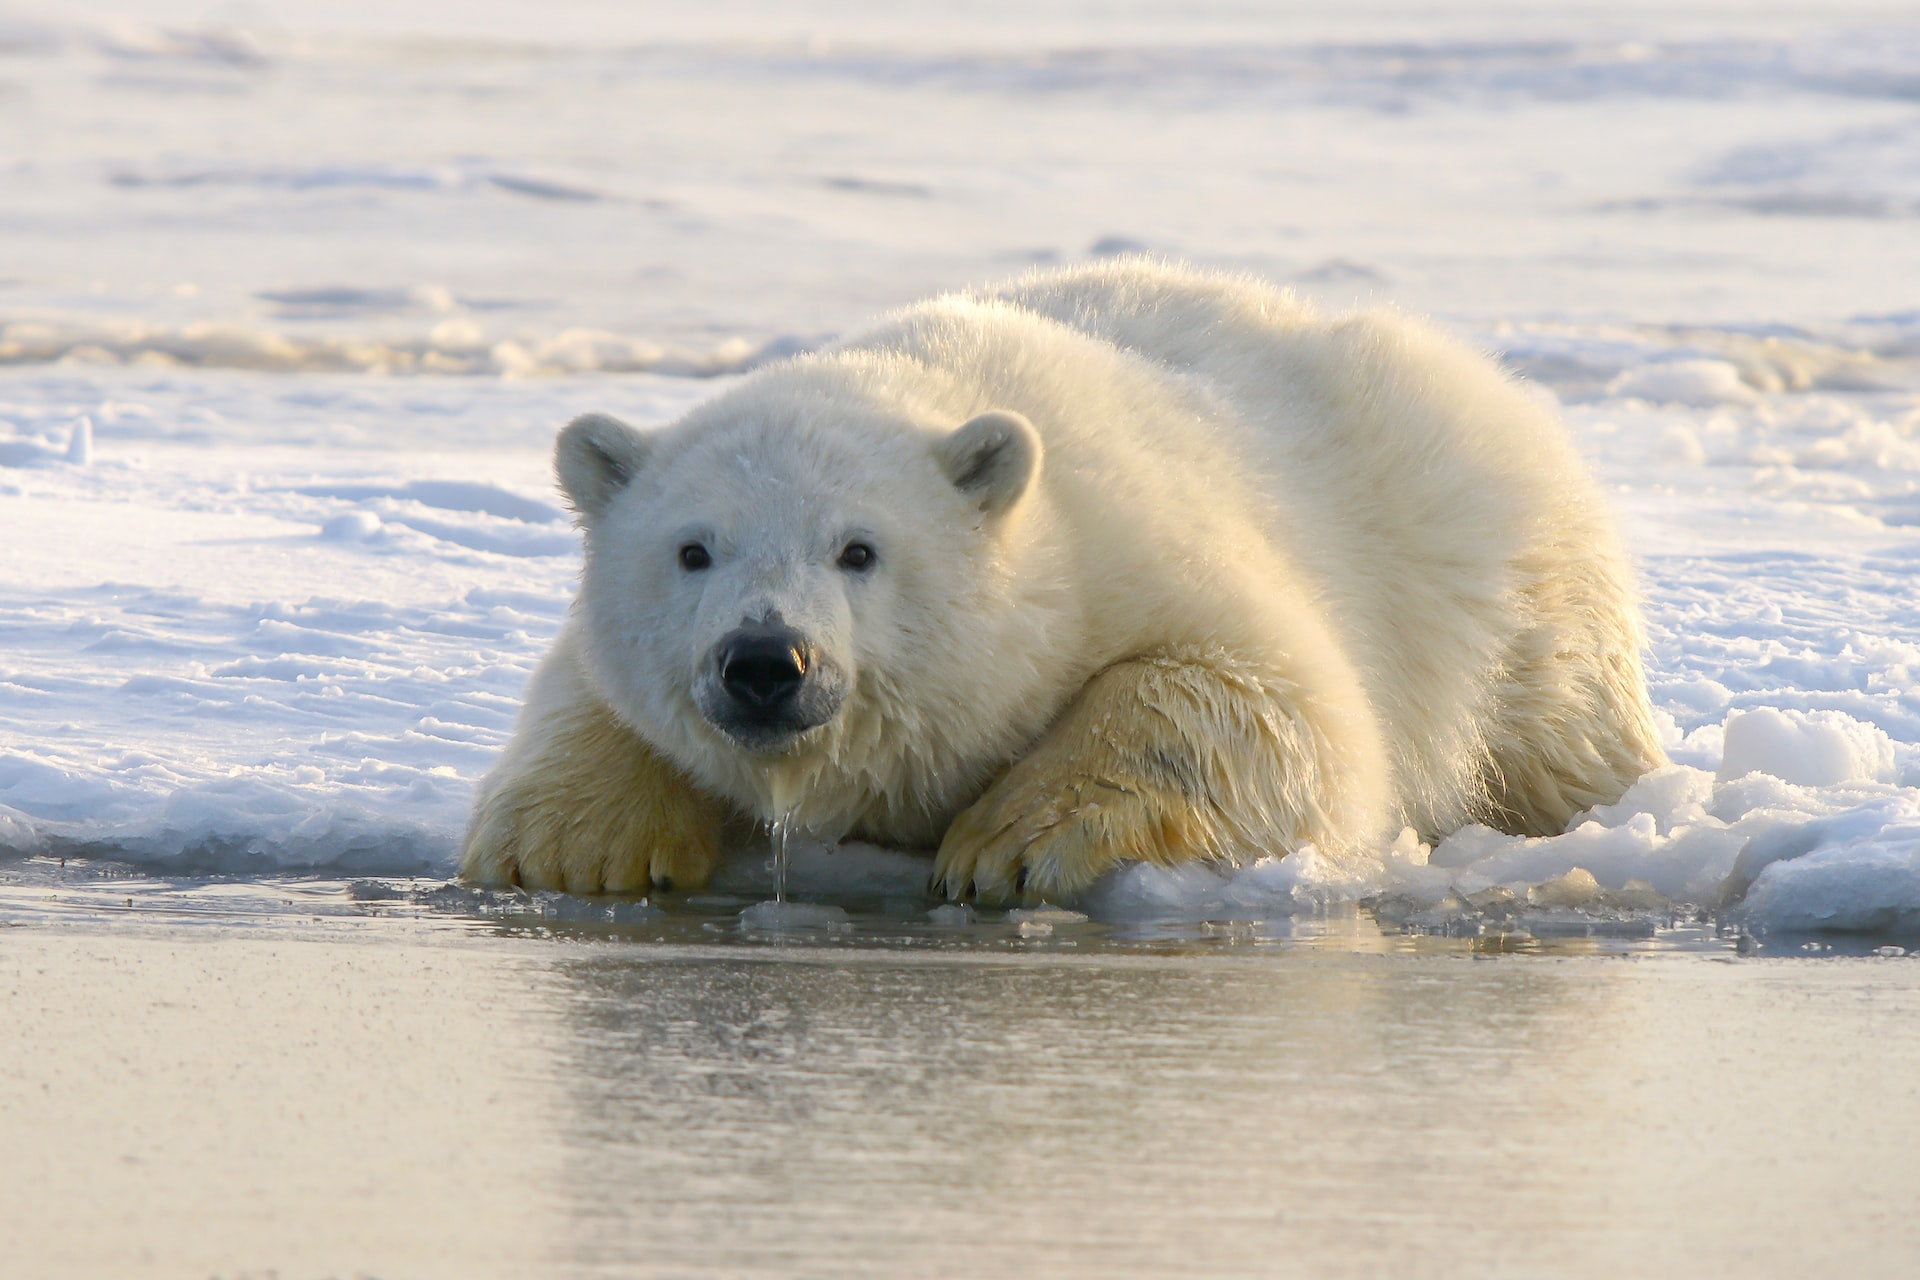
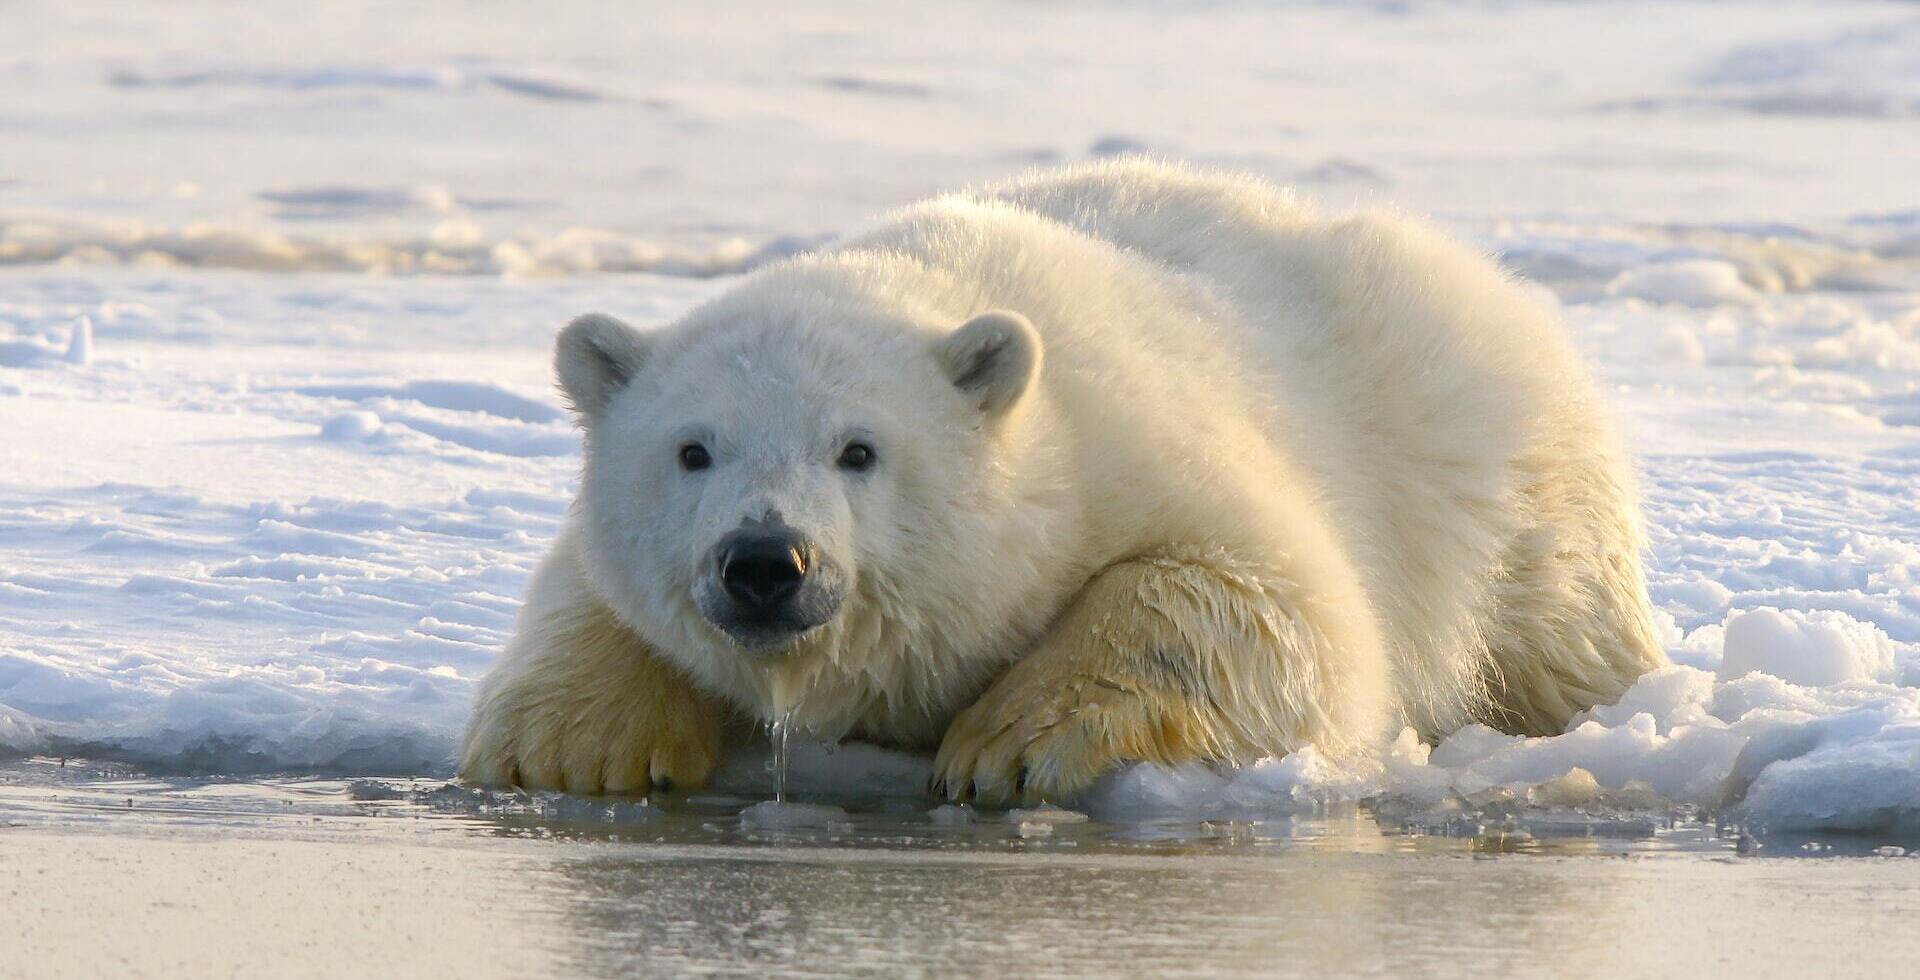
deploy: 9ee9b58210a436078034123e0c4e29b0c0847308

diff --git a/posts/how-i-track-my-dotfiles/index.html b/posts/how-i-track-my-dotfiles/index.html
@@ -1,6 +1,6 @@
 <!doctype html><html lang=en><head><meta charset=utf-8><meta name=viewport content="width=device-width,initial-scale=1"><meta name=robots content="noodp"><title>How to Set Up a Git Bare Repository to Track Dotfiles - Michael Espeña</title><meta name=Description content="Michael Espeña's blogs"><meta property="og:title" content="How to Set Up a Git Bare Repository to Track Dotfiles"><meta property="og:description" content="There are many ways to manage dotfiles on Linux and other Unix-like operating systems; you can do it manually, for example, using shell scripts and even Makefiles, or you can use dedicated tools like stow and yadm. Another common way people do it though is using git bare repositories, and it is the method of tracking dotfiles that I ultimately chose upon considering the alternatives.
 When you use git normally you have a repository that contains a ."><meta property="og:type" content="article"><meta property="og:url" content="http://michesp42.github.io/posts/how-i-track-my-dotfiles/"><meta property="og:image" content="http://michesp42.github.io/posts/how-i-track-my-dotfiles/featured-image.jpg"><meta property="article:section" content="posts"><meta property="article:published_time" content="2022-10-14T12:28:49+08:00"><meta property="article:modified_time" content="2022-10-14T12:28:49+08:00"><meta property="og:site_name" content="Michael Espeña - Psyche"><meta name=twitter:card content="summary_large_image"><meta name=twitter:image content="http://michesp42.github.io/posts/how-i-track-my-dotfiles/featured-image.jpg"><meta name=twitter:title content="How to Set Up a Git Bare Repository to Track Dotfiles"><meta name=twitter:description content="There are many ways to manage dotfiles on Linux and other Unix-like operating systems; you can do it manually, for example, using shell scripts and even Makefiles, or you can use dedicated tools like stow and yadm. Another common way people do it though is using git bare repositories, and it is the method of tracking dotfiles that I ultimately chose upon considering the alternatives.
-When you use git normally you have a repository that contains a ."><meta name=application-name content="My cool site"><meta name=apple-mobile-web-app-title content="My cool site"><meta name=theme-color content="#ffffff"><meta name=msapplication-TileColor content="#da532c"><link rel="shortcut icon" type=image/x-icon href=/favicon.ico><link rel=icon type=image/png sizes=32x32 href=/favicon-32x32.png><link rel=icon type=image/png sizes=16x16 href=/favicon-16x16.png><link rel=apple-touch-icon sizes=180x180 href=/apple-touch-icon.png><link rel=mask-icon href=/safari-pinned-tab.svg color=#5bbad5><link rel=manifest href=/site.webmanifest><link rel=canonical href=http://michesp42.github.io/posts/how-i-track-my-dotfiles/><link rel=stylesheet href=/css/style.min.css><link rel=preload href=https://cdn.jsdelivr.net/npm/@fortawesome/fontawesome-free@6.1.1/css/all.min.css as=style onload='this.onload=null,this.rel="stylesheet"'><noscript><link rel=stylesheet href=https://cdn.jsdelivr.net/npm/@fortawesome/fontawesome-free@6.1.1/css/all.min.css></noscript><link rel=preload href=https://cdn.jsdelivr.net/npm/animate.css@4.1.1/animate.min.css as=style onload='this.onload=null,this.rel="stylesheet"'><noscript><link rel=stylesheet href=https://cdn.jsdelivr.net/npm/animate.css@4.1.1/animate.min.css></noscript><script type=application/ld+json>{"@context":"http://schema.org","@type":"BlogPosting","headline":"How to Set Up a Git Bare Repository to Track Dotfiles","inLanguage":"en","mainEntityOfPage":{"@type":"WebPage","@id":"http:\/\/michesp42.github.io\/posts\/how-i-track-my-dotfiles\/"},"image":[{"@type":"ImageObject","url":"http:\/\/michesp42.github.io\/posts\/how-i-track-my-dotfiles\/featured-image.jpg","width":1920,"height":1280}],"genre":"posts","keywords":"linux, dotfiles, git","wordcount":642,"url":"http:\/\/michesp42.github.io\/posts\/how-i-track-my-dotfiles\/","datePublished":"2022-10-14T12:28:49+08:00","dateModified":"2022-10-14T12:28:49+08:00","publisher":{"@type":"Organization","name":""},"author":{"@type":"Person","name":"Michael Espeña"},"description":""}</script></head><body data-header-desktop=fixed data-header-mobile=auto><script type=text/javascript>(window.localStorage&&localStorage.getItem("theme")?localStorage.getItem("theme")==="dark":"auto"==="auto"?window.matchMedia("(prefers-color-scheme: dark)").matches:"auto"==="dark")&&document.body.setAttribute("theme","dark")</script><div id=mask></div><div class=wrapper><header class=desktop id=header-desktop><div class=header-wrapper><div class=header-title><a href=/ title="Michael Espeña"><span class=header-title-pre><i class='fas fa-terminal fa-fw' aria-hidden=true></i></span>Michael Espeña</a></div><div class=menu><div class=menu-inner><a class=menu-item href=/about/>About </a><a class=menu-item href=/posts/>Posts </a><a class=menu-item href=/tags/>Tags </a><a class=menu-item href=/categories/>Categories </a><a class=menu-item href=https://github.com/michesp42 title=Github rel="noopener noreffer" target=_blank><i class='fab fa-github fa-fw'></i> </a><a class=menu-item href=https://gitlab.com/michesp42 title=gitlab rel="noopener noreffer" target=_blank><i class='fab fa-gitlab fa-fw'></i> </a><span class="menu-item delimiter"></span><span class="menu-item search" id=search-desktop>
+When you use git normally you have a repository that contains a ."><meta name=application-name content="My cool site"><meta name=apple-mobile-web-app-title content="My cool site"><meta name=theme-color content="#ffffff"><meta name=msapplication-TileColor content="#da532c"><link rel="shortcut icon" type=image/x-icon href=/favicon.ico><link rel=icon type=image/png sizes=32x32 href=/favicon-32x32.png><link rel=icon type=image/png sizes=16x16 href=/favicon-16x16.png><link rel=apple-touch-icon sizes=180x180 href=/apple-touch-icon.png><link rel=mask-icon href=/safari-pinned-tab.svg color=#5bbad5><link rel=manifest href=/site.webmanifest><link rel=canonical href=http://michesp42.github.io/posts/how-i-track-my-dotfiles/><link rel=stylesheet href=/css/style.min.css><link rel=preload href=https://cdn.jsdelivr.net/npm/@fortawesome/fontawesome-free@6.1.1/css/all.min.css as=style onload='this.onload=null,this.rel="stylesheet"'><noscript><link rel=stylesheet href=https://cdn.jsdelivr.net/npm/@fortawesome/fontawesome-free@6.1.1/css/all.min.css></noscript><link rel=preload href=https://cdn.jsdelivr.net/npm/animate.css@4.1.1/animate.min.css as=style onload='this.onload=null,this.rel="stylesheet"'><noscript><link rel=stylesheet href=https://cdn.jsdelivr.net/npm/animate.css@4.1.1/animate.min.css></noscript><script type=application/ld+json>{"@context":"http://schema.org","@type":"BlogPosting","headline":"How to Set Up a Git Bare Repository to Track Dotfiles","inLanguage":"en","mainEntityOfPage":{"@type":"WebPage","@id":"http:\/\/michesp42.github.io\/posts\/how-i-track-my-dotfiles\/"},"image":[{"@type":"ImageObject","url":"http:\/\/michesp42.github.io\/posts\/how-i-track-my-dotfiles\/featured-image.jpg","width":1920,"height":980}],"genre":"posts","keywords":"linux, dotfiles, git","wordcount":642,"url":"http:\/\/michesp42.github.io\/posts\/how-i-track-my-dotfiles\/","datePublished":"2022-10-14T12:28:49+08:00","dateModified":"2022-10-14T12:28:49+08:00","publisher":{"@type":"Organization","name":""},"author":{"@type":"Person","name":"Michael Espeña"},"description":""}</script></head><body data-header-desktop=fixed data-header-mobile=auto><script type=text/javascript>(window.localStorage&&localStorage.getItem("theme")?localStorage.getItem("theme")==="dark":"auto"==="auto"?window.matchMedia("(prefers-color-scheme: dark)").matches:"auto"==="dark")&&document.body.setAttribute("theme","dark")</script><div id=mask></div><div class=wrapper><header class=desktop id=header-desktop><div class=header-wrapper><div class=header-title><a href=/ title="Michael Espeña"><span class=header-title-pre><i class='fas fa-terminal fa-fw' aria-hidden=true></i></span>Michael Espeña</a></div><div class=menu><div class=menu-inner><a class=menu-item href=/about/>About </a><a class=menu-item href=/posts/>Posts </a><a class=menu-item href=/tags/>Tags </a><a class=menu-item href=/categories/>Categories </a><a class=menu-item href=https://github.com/michesp42 title=Github rel="noopener noreffer" target=_blank><i class='fab fa-github fa-fw'></i> </a><a class=menu-item href=https://gitlab.com/michesp42 title=gitlab rel="noopener noreffer" target=_blank><i class='fab fa-gitlab fa-fw'></i> </a><span class="menu-item delimiter"></span><span class="menu-item search" id=search-desktop>
 <input type=text placeholder="Search titles or contents..." id=search-input-desktop>
 <a href=javascript:void(0); class="search-button search-toggle" id=search-toggle-desktop title=Search><i class="fas fa-search fa-fw" aria-hidden=true></i></a>
 <a href=javascript:void(0); class="search-button search-clear" id=search-clear-desktop title=Clear><i class="fas fa-times-circle fa-fw" aria-hidden=true></i></a>
